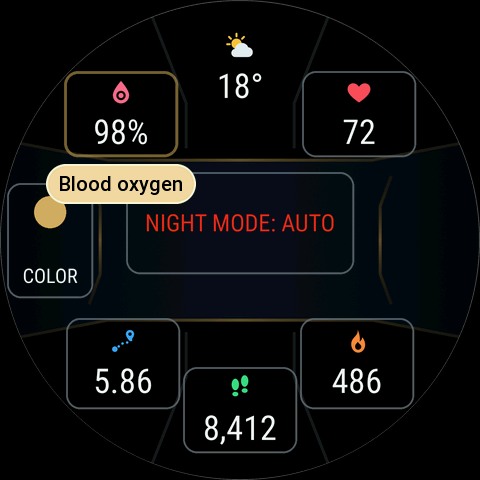
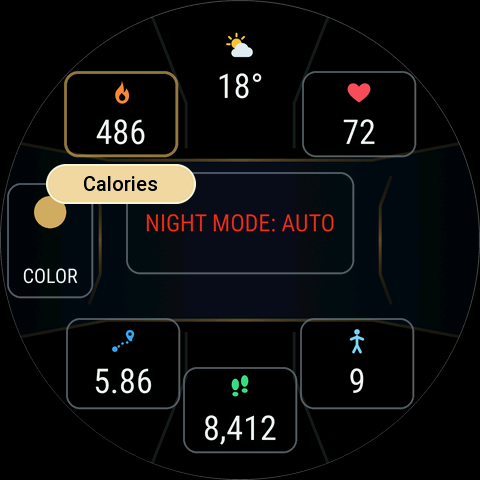
Both faces default to calories top left and stand bottom right; screenshots retaken
Claude-Session: https://claude.ai/code/session_012KPDJFynRZHgtW6jiJMtsx

diff --git a/faces/twisted-sextant/watchface/layout.generated.js b/faces/twisted-sextant/watchface/layout.generated.js
@@ -1730,11 +1730,11 @@ export const LAYOUT = {
     }
   },
   "default_slots": [
-    "spo2",
+    "calories",
     "heart",
     "distance",
     "steps",
-    "calories",
+    "stand",
     "weather"
   ],
   "edit_metrics": [

diff --git a/faces/sextant/watchface/layout.generated.js b/faces/sextant/watchface/layout.generated.js
@@ -1677,7 +1677,7 @@ export const LAYOUT = {
     "heart",
     "distance",
     "steps",
-    "floors",
+    "stand",
     "weather"
   ],
   "edit_metrics": null,

diff --git a/faces/sextant/design/config.py b/faces/sextant/design/config.py
@@ -157,7 +157,7 @@ METRICS = {
 }
 # small unit letters some metrics draw after their value (in the metric's colour)
 UNIT_CHARS = {"distance": "kmi", "recovery": "h", "altitude": "mft", "pressure": "hPa", "compass": "NESW"}
-DEFAULT_SLOTS = ["calories", "heart", "distance", "steps", "floors", "weather"]   # TL, TR, BL, BM, BR, TM
+DEFAULT_SLOTS = ["calories", "heart", "distance", "steps", "stand", "weather"]   # TL, TR, BL, BM, BR, TM
 EDIT_METRICS = None                       # metrics the editable slots offer (None: all)
 FIXED_SLOTS = {}                          # {slot index: metric} for slots that aren't editable
 DEMO_VALUES = None                        # mock-ups only: {metric: {"text", "unit", "progress", "icon"}}

diff --git a/faces/twisted-sextant/README.md b/faces/twisted-sextant/README.md
@@ -11,7 +11,7 @@
 - **Turned corners.** The face draws each corner value from one image per character and the watch turns them, so only metrics the face can read itself can turn. The diagonal compass markers sit at the middle of each corner gauge, pointing at the value.
 - **22 metrics to choose from** in every editable slot: steps, distance, calories, stand, fat-burning minutes, PAI, heart rate, resting heart rate, blood oxygen, stress, body temperature, sleep, sleep score, VO2 max, training load, recovery time, today's forecast, altitude, air pressure, compass heading, next sunrise or sunset, and moon phase. Floors, current weather, UV index, humidity and air quality aren't offered in the slots, because the watch fills those in itself and they can't turn.
 - **Weather is fixed at the top** (current condition icon and temperature, with the condition's name under the time). It isn't editable.
-- **Defaults:** blood oxygen top left, heart rate top right, distance bottom left, steps bottom centre, calories bottom right.
+- **Defaults:** calories top left, heart rate top right, distance bottom left, steps bottom centre, stand bottom right.
 
 Everything else is Sextant: the time bar, date and battery, status icons, compass-tick gauges, automatic night mode, the mono theme and the always-on display.
 
@@ -23,7 +23,7 @@ Everything else is Sextant: the time bar, date and battery, status icons, compas
 | **Always-on** | **Other complications** | **Edit mode** |
 | <img src="screenshots/day_aod.png" width="250"> | <img src="screenshots/alt.png" width="250"> | <img src="screenshots/day_edit.png" width="250"> |
 
-All screenshots are taken on the real Zepp OS firmware (Amazfit Balance 2 emulator image). The emulator can't feed test values to some sensors (distance, PAI, stand, fat burning, blood oxygen, stress, sleep, training, barometer, body temperature, compass), so those show 0 or -- in the screenshots.
+All screenshots are taken on the real Zepp OS firmware (Amazfit Balance 2 emulator image). The emulator can't feed test values to some sensors (distance, PAI, stand, fat burning, blood oxygen, stress, training, barometer, body temperature, compass), so those show 0 or -- in the screenshots.
 
 ## Development
 

diff --git a/docs/development.md b/docs/development.md
@@ -147,7 +147,7 @@ Only shots the READMEs or the install site use are kept. A full Sextant set take
 
 **Emulator limits:**
 - `zeus build` converts images to the watch's own compressed format, which the emulator can't decode. `tools/emu/prepare.py` swaps the original PNGs back in, for the emulator only.
-- Test values (`set`) reach steps, calories, heart rate and battery through `@zos/sensor`, and every bound widget. Distance, PAI, stand, fat burning, blood oxygen and stress read 0 through `@zos/sensor` even when set (their bound widgets do show the values), and so do sleep, training, barometer, body temperature and compass, so check those on a real watch. For mock-ups, `DEMO_VALUES` in `design/config.py` (an override) shows given values instead of readings.
+- Test values (`set`) reach steps, calories, heart rate and battery through `@zos/sensor`, and every bound widget. Distance, PAI, stand, fat burning, blood oxygen and stress read 0 through `@zos/sensor` even when set (their bound widgets do show the values), and so do training, barometer, body temperature and compass (sleep does read the emulator's own sleep data), so check those on a real watch. For mock-ups, `DEMO_VALUES` in `design/config.py` (an override) shows given values instead of readings.
 - The weather location is fixed (Beijing data: sunset 17:55). Weather values only update when they change.
 
 The firmware log, including the face's `console.log` output, is in `tools/.emu/serial.log`. Watch state persists in `tools/.emu/flash.bin`.

diff --git a/faces/twisted-sextant/CHANGELOG.md b/faces/twisted-sextant/CHANGELOG.md
@@ -8,4 +8,4 @@ The version here must match `version.name` in `app.json`; bumping it publishes a
 ## [0.1.0] - YYYY-MM-DD
 
 ### Added
-- First release: Sextant with the corner complications turned to run along their gauges (values at the rim, icons inward), the 22 metrics the face can read in every editable slot (including sleep, resting heart rate, training, altitude, air pressure, compass, moon phase and today's forecast), and weather fixed at the top. Defaults: blood oxygen, heart rate, distance, steps and calories. The diagonal compass markers sit at the middle of the corner gauges (43.5° rather than 45.5°), so each points at its turned value.
+- First release: Sextant with the corner complications turned to run along their gauges (values at the rim, icons inward), the 22 metrics the face can read in every editable slot (including sleep, resting heart rate, training, altitude, air pressure, compass, moon phase and today's forecast), and weather fixed at the top. Defaults: calories, heart rate, distance, steps and stand. The diagonal compass markers sit at the middle of the corner gauges (43.5° rather than 45.5°), so each points at its turned value.

diff --git a/faces/sextant/CHANGELOG.md b/faces/sextant/CHANGELOG.md
@@ -11,7 +11,7 @@ All notable changes to the Sextant watch face. The format follows
 - The time bar is exactly a third of the screen height, and the time uses Roboto Condensed at 121px (was Roboto at 106px).
 - Weekday and month are bigger (32px, was 21px), so they're easier to read.
 - Dividers, separators and band edges are 1px wider (3px), because 2px was too faint on the watch.
-- Steps moves to the bottom centre, and calories to the top left.
+- Steps moves to the bottom centre, calories to the top left, and stand takes the bottom right (was floors).
 - The weather condition under the time only shows when a complication shows weather.
 - The status icons move out of the time bar: alarm and Do Not Disturb at the bottom of the top-centre section, Bluetooth and lock at the top of the bottom-centre section, each pair set off from its metric by a flared rule. The time and the weather condition now spread evenly in the bar, and the time centres by itself when no complication shows weather.
 - Compass markers at north, south and the four diagonals. They stay brass until their gauge's progress passes them, then take the gauge's colour.
